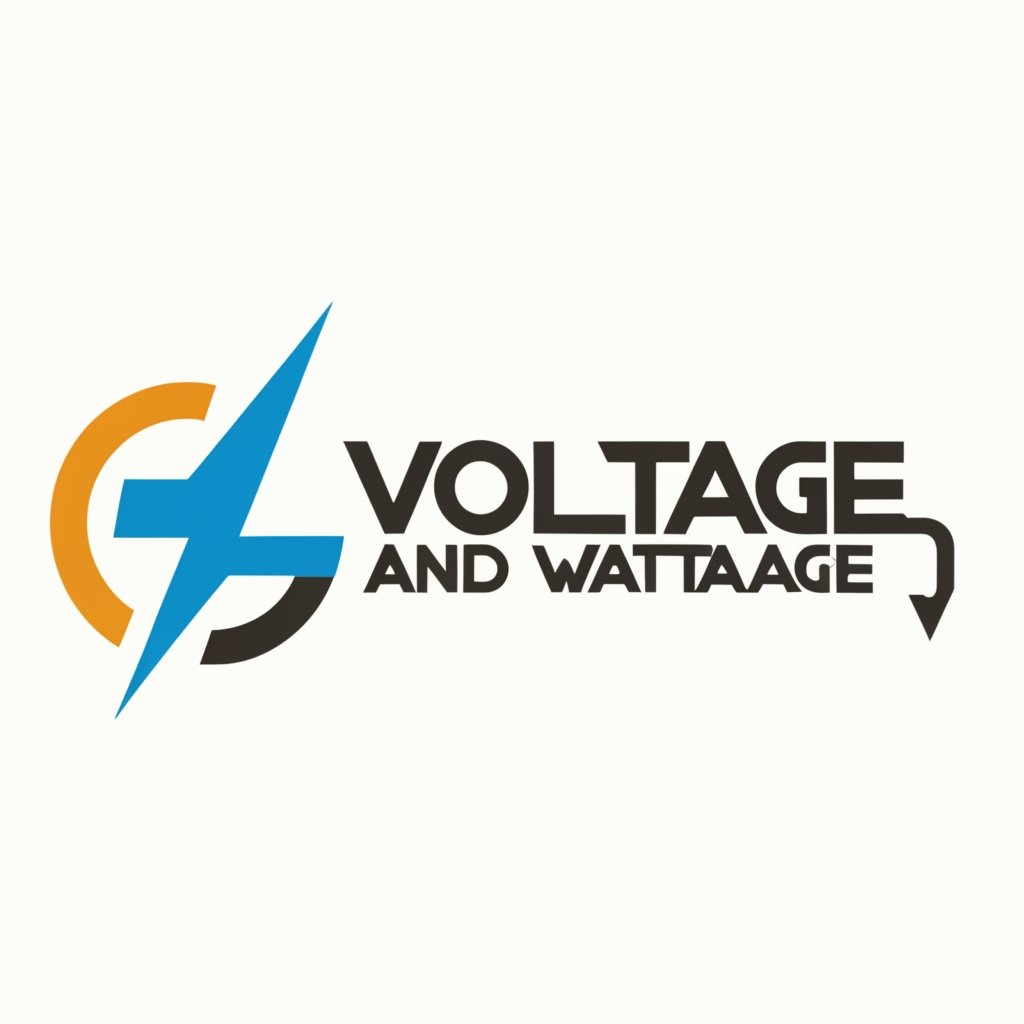
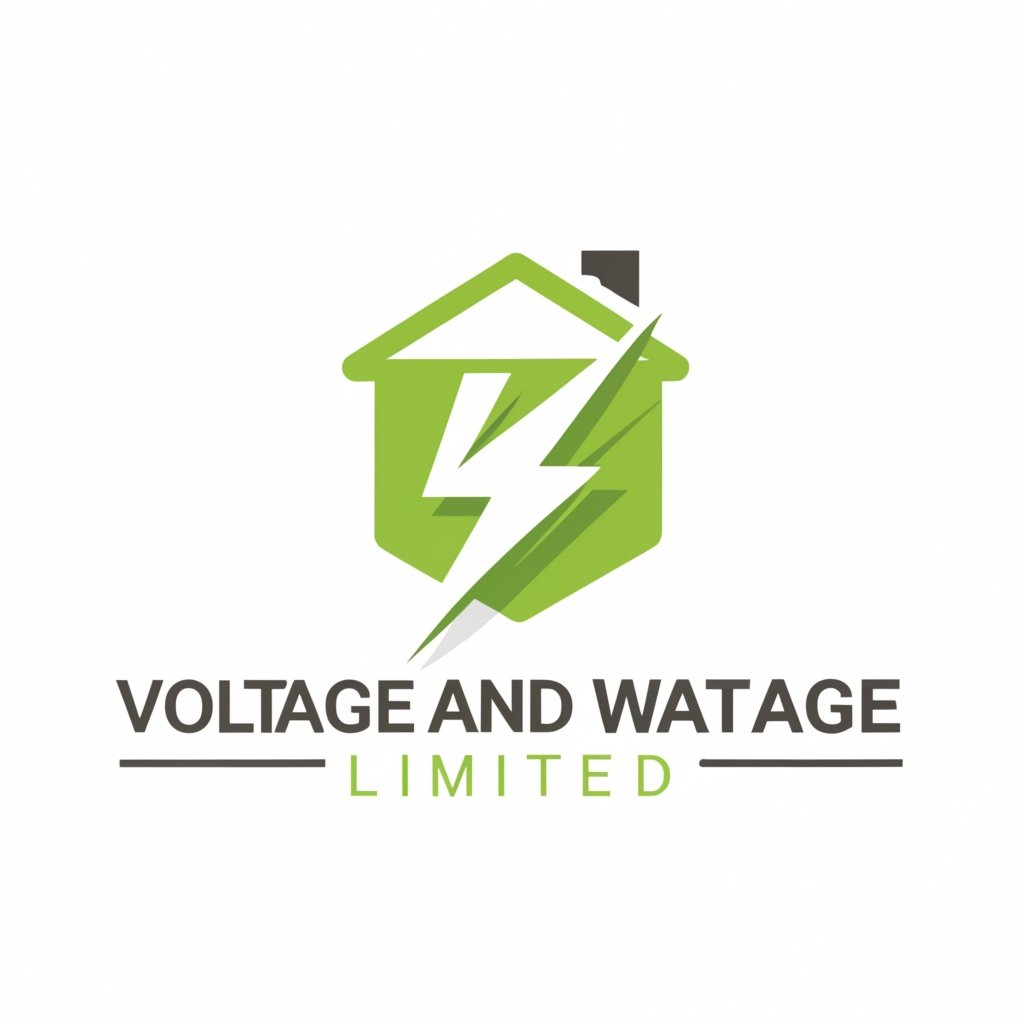
added images

Changed region(s): [[0.0312, 0.2188, 0.9375, 0.7812], [0.3125, 0.2812, 0.3438, 0.3125]]

diff --git a/app/templates/about.html b/app/templates/about.html
@@ -34,7 +34,7 @@
 							<span class="icon-bar"></span>
 							<span class="icon-bar"></span>
 						</button> 
-						<a class="navbar-brand" href="index1.html"><img src="{{url_for('static', filename='img/slides/logo.PNG')}}" alt="logo"/></a>
+						<a class="navbar-brand" href="index1.html"><img src="{{url_for('static', filename='img/slides/logo111.PNG')}}" alt="Voltage and wattage Limited"/></a>
 					</div>
 					<div class="navbar-collapse collapse ">
 						<ul class="nav navbar-nav">
@@ -79,8 +79,8 @@
 									<div class="block-heading-two">
 										<h3><span>Why Choose Us?</span></h3>
 									</div>
-									<p>Founded in 2005, Onik Global Services is a world-class telecommunication, energy,sourcing and infrastructure solutions provider.<br><br>We have a proven track record in Telecom site build, industrial cables procurement and exceeding customer demands, including completing 15,000+ wireline projects across the telecommunications ecosystem.</p>
-									<p></p>
+									<p>Incorporated as an Engineering, procurement and construction (EPC) entity, we are a collection of seasoned engineering professionals with vast years of on the job successful exposure in electric power utility, telecoms infrastructure and renewable energy sectors.<br></p>
+									<p>We have a proven track record in Electrical installation, design, industrial cables procurement and exceeding customer demands, including completing 15,000+ remote electrical monitoring projects across the telecommunications ecosystem.</p>
 									
 								</div>
 								<div class="col-md-4">
@@ -95,7 +95,7 @@
 										 <div class="panel-heading">
 											<h4 class="panel-title">
 											  <a data-toggle="collapse" data-parent="#accordion-alt3" href="#collapseOne-alt3">
-												<i class="fa fa-angle-right"></i> Site Build
+												<i class="fa fa-angle-right"></i> Electrical Design & Construction
 											  </a>
 											</h4>
 										 </div>
@@ -110,7 +110,7 @@
 										 <div class="panel-heading">
 											<h4 class="panel-title">
 											  <a data-toggle="collapse" data-parent="#accordion-alt3" href="#collapseTwo-alt3">
-												<i class="fa fa-angle-right"></i> Procurement
+												<i class="fa fa-angle-right"></i> Switchboard & metering alterations
 											  </a>
 											</h4>
 										 </div>
@@ -124,7 +124,7 @@
 										 <div class="panel-heading">
 											<h4 class="panel-title">
 											  <a data-toggle="collapse" data-parent="#accordion-alt3" href="#collapseThree-alt3">
-												<i class="fa fa-angle-right"></i> telecommunications
+												<i class="fa fa-angle-right"></i> Light and power installation
 											  </a>
 											</h4>
 										 </div>
@@ -138,7 +138,7 @@
 										 <div class="panel-heading">
 											<h4 class="panel-title">
 											  <a data-toggle="collapse" data-parent="#accordion-alt3" href="#collapseFour-alt3">
-												<i class="fa fa-angle-right"></i> Green Energy
+												<i class="fa fa-angle-right"></i> Exit and emergency lighting
 											  </a>
 											</h4>
 										 </div>
@@ -158,14 +158,14 @@
 									<div class="block-heading-two">
 										<h3><span>Our Expertise</span></h3>
 									</div>								
-									<h6>Wireless Network</h6>
+									<h6>Exit and emergency lighting</h6>
 									<div class="progress pb-sm">
 									  <!-- White color (progress-bar-white) -->
 									  <div class="progress-bar progress-bar-red" role="progressbar" aria-valuenow="40" aria-valuemin="0" aria-valuemax="100" style="width: 40%">
 										 <span class="sr-only">60% Complete (success)</span>
 									  </div>
 									</div>
-									<h6>Managed Services</h6>
+									<h6>Electrical Design & Construction</h6>
 									<div class="progress pb-sm">
 										<!-- Whitef color (progress-bar-white) -->
 										<div class="progress-bar progress-bar-red" role="progressbar" aria-valuenow="40" aria-valuemin="0" aria-valuemax="100" style="width: 40%">
@@ -178,13 +178,13 @@
 										 <span class="sr-only">40% Complete (success)</span>
 									  </div>
 									</div>
-									<h6>Supply Chain Management</h6>
+									<h6>Supply Energy management systems / power audits</h6>
 									<div class="progress pb-sm">
 									  <div class="progress-bar progress-bar-lblue" role="progressbar" aria-valuenow="80" aria-valuemin="0" aria-valuemax="100" style="width: 80%">
 										 <span class="sr-only">95% Complete (success)</span>
 									  </div>
 									</div>
-									<h6>5G Site Upgrade</h6>
+									<h6>Electrical  Site Upgrade</h6>
 									<div class="progress pb-sm">
 									  <div class="progress-bar progress-bar-yellow" role="progressbar" aria-valuenow="30" aria-valuemin="0" aria-valuemax="100" style="width: 30%">
 										 <span class="sr-only">40% Complete (success)</span>

diff --git a/app/templates/index1.html b/app/templates/index1.html
@@ -119,8 +119,9 @@
 		</div>
 			<div class="col-md-8">
 				<div><h1><span>Hello,<span class="blue_text">Welcome!!</span></span></h1><span class="clear spacer_responsive_hide_mobile " style="height:13px;display:block;"></span><p></p>
-				<p>Founded in 2005, voltage & wattage is a world-class telecommunication, energy,sourcing and infrastructure solutions provider.<br><br>We have a proven track record in Telecom site build, Global sourcing and exceeding customer demands, including completing 15,000+ wireline projects across the telecommunications ecosystem.</p>
-				</div>
+				<p>Voltage And Wattage Ltd, RC 1699748 is an experienced power engineering support and management service company located in Lagos,Nigeria.</p>
+			  <p>Incorporated as an Engineering, procurement and construction (EPC) entity, we are a collection of seasoned engineering professionals with vast years of on the job successful exposure in electric power utility, telecoms infrastructure and renewable energy sectors.   </p>	
+			</div>
 			</div>
 		</div>
 		
@@ -137,7 +138,9 @@
 								<div class="block-heading-two">
 									<h3><span>Why Choose Us?</span></h3>
 								</div>
-								<p>Founded in 2005, Onik Global Services is a world-class telecommunication, energy,sourcing and infrastructure solutions provider.<br><br>We have a proven track record in Telecom site build, industrial cables procurement and exceeding customer demands, including completing 15,000+ wireline projects across the telecommunications ecosystem.</p>
+								<p>we continue to provide cutting edge
+									electrical solutions to customers and majo r
+									clients in Nigeria and Africa at large.<br><br>We have a proven track record in Telecom site build, industrial cables procurement and exceeding customer demands, including completing 15,000+ wireline projects across the telecommunications ecosystem.</p>
 								<p></p>
 								
 								
@@ -236,12 +239,14 @@
 				<div class="widget">
 					<h5 class="widgetheading">Our Contact</h5>
 					<address>
-					<strong>Onik Global Services Limited</strong><br>
-					25 Eric Moore Close, Eric Moore Surulere, Lagos, Nigeria<br>
+					<strong>Voltage and wattage Limited</strong><br>
+					Trof
+Heights Building, 1 st Floor, 1 Ibukunoluwa Awosika Street,
+Off Lekki Epe Express way, Lagos, Nigeria<br>
 					 Pin-21542 NewYork US.</address>
 					<p>
 						<i class="icon-phone"></i> (+234) 0802 341 7445 - (+234) 0806 019 4450 <br>
-						<i class="icon-envelope-alt"></i> info@onikglobalservices.com
+						<i class="icon-envelope-alt"></i> info@voltageandwattage.com
 					</p>
 				</div>
 			</div>
@@ -285,7 +290,7 @@
 				<div class="col-lg-6">
 					<div class="copyright">
 						<p>
-							<span>&copy; Onik Global Services 2023 All right reserved. By </span><a href="http://webthemez.com" target="_blank">WebThemez</a>
+							<span>&copy; Voltage and wattage Limited 2024 All right reserved. By </span><a href="http://webthemez.com" target="_blank">WebThemez</a>
 						</p>
 					</div>
 				</div>

diff --git a/app/templates/contact.html b/app/templates/contact.html
@@ -34,7 +34,7 @@
                             <span class="icon-bar"></span>
                             <span class="icon-bar"></span>
                         </button>
-                      <a class="navbar-brand" href="index1.html"><img src="{{url_for('static', filename='img/slides/logo.PNG')}}" alt=""/></a>
+                      <a class="navbar-brand" href="index1.html"><img src="{{url_for('static', filename='img/slides/logo111.PNG')}}" alt="Voltage and wattage Limited"/></a>
                     </div>
                     <div class="navbar-collapse collapse ">
                         <ul class="nav navbar-nav">
